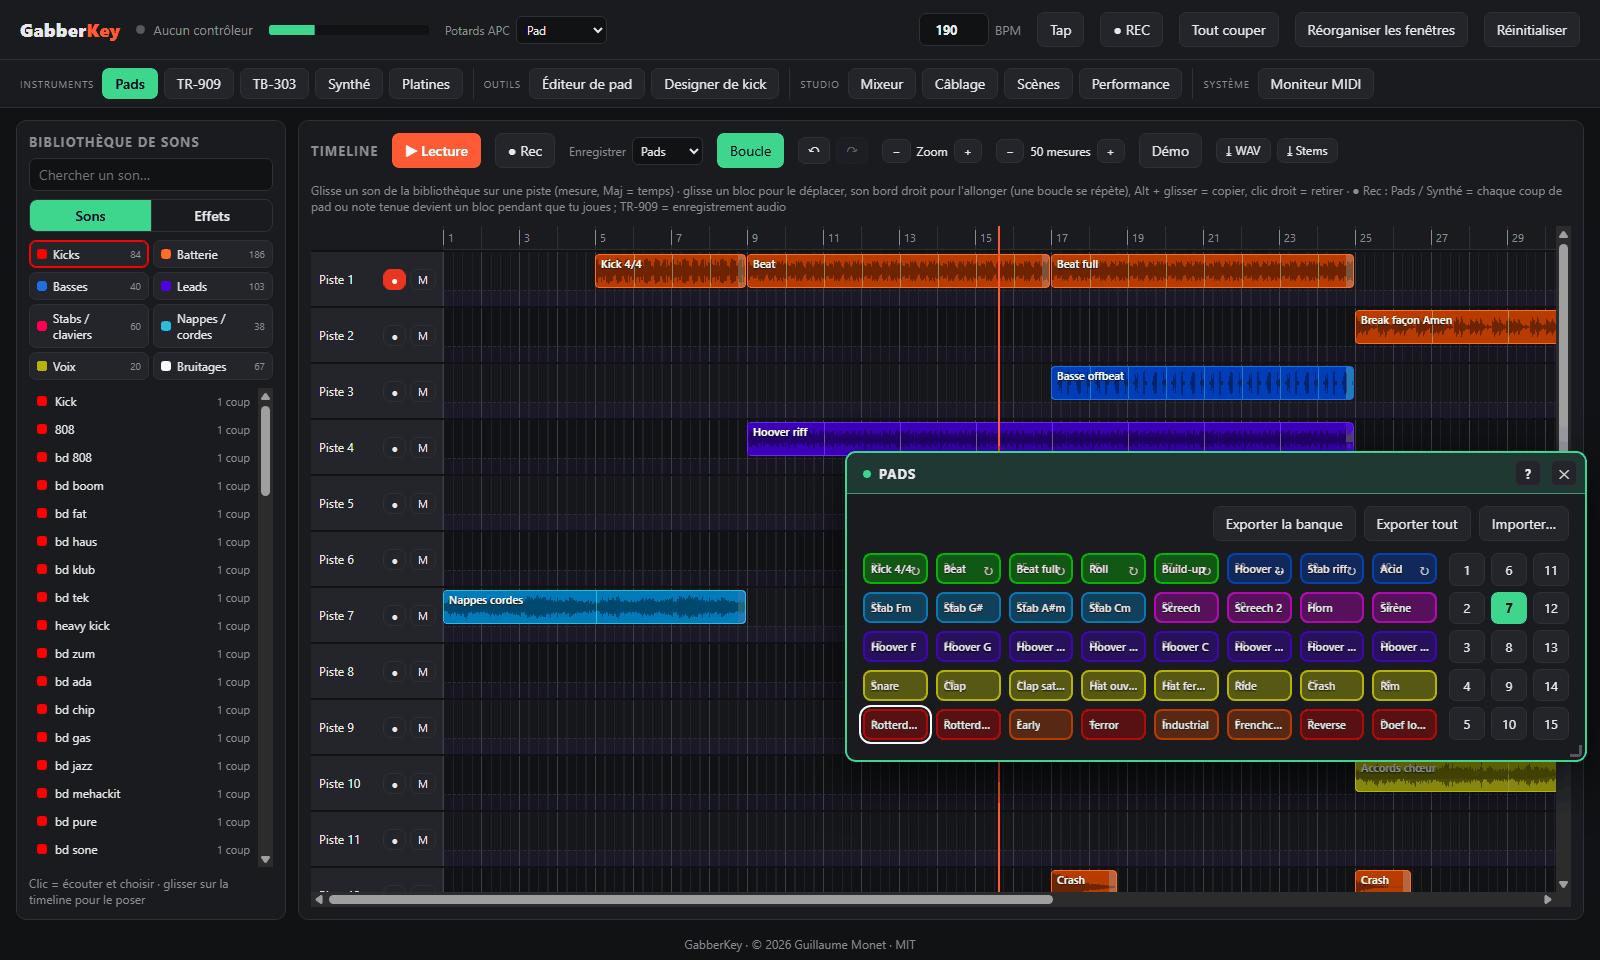
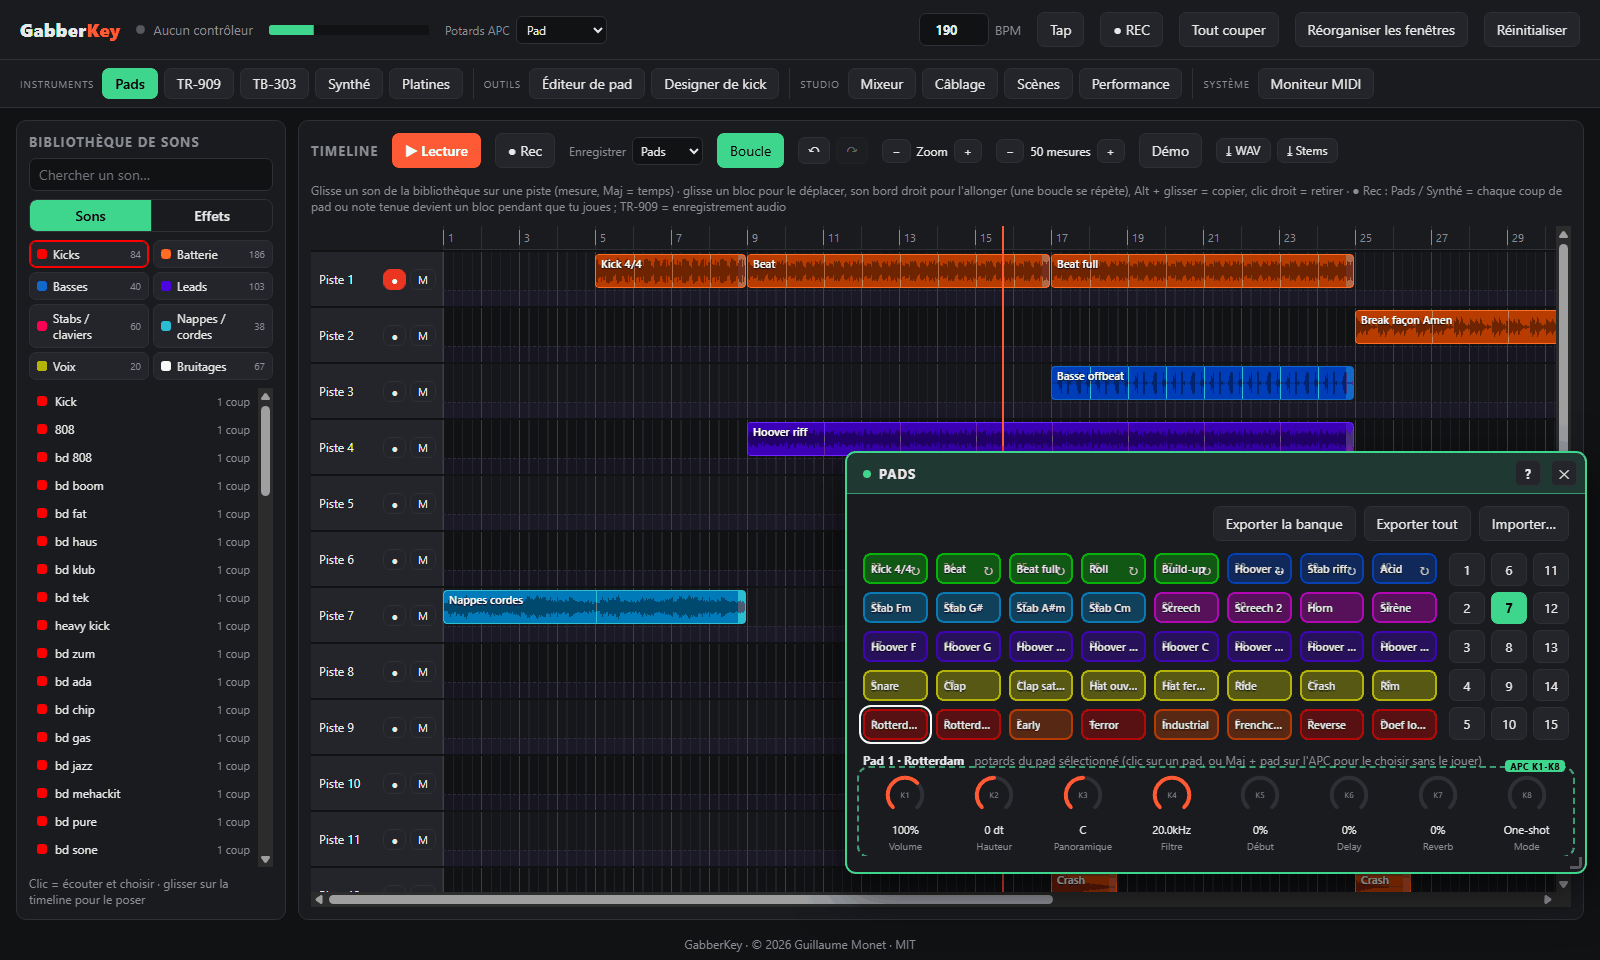
Pads window: knobs of the selected pad under the grid (synced with the pad editor and the APC knobs); screenshots updated

Changed region(s): [[0.5312, 0.7812, 1.0, 0.9688], [0.8438, 0.9062, 0.9062, 0.9375], [0.4375, 0.625, 0.4688, 0.6562]]

diff --git a/index.html b/index.html
@@ -5,7 +5,7 @@
   <meta name="viewport" content="width=device-width, initial-scale=1">
   <meta name="author" content="Guillaume Monet">
   <title>GabberKey</title>
-  <link rel="stylesheet" href="css/style.css?v=36">
+  <link rel="stylesheet" href="css/style.css?v=37">
 </head>
 <body>
   <div id="start" class="overlay">
@@ -85,6 +85,10 @@
       <div class="grid-wrap">
         <div id="pads" class="pads"></div>
         <div id="banks" class="banks" data-i18n-aria="banks.aria"></div>
+      </div>
+      <div class="pad-knobs">
+        <div class="pad-knobs-title"><b id="pad-knobs-name"></b><span class="hint" data-i18n="pads.knobsHint"></span></div>
+        <div id="pad-knobs" class="mini-knobs row-knobs"></div>
       </div>
     </section>
 
@@ -245,35 +249,35 @@
   <script type="importmap">
   {
     "imports": {
-      "./js/acid.js": "./js/acid.js?v=36",
-      "./js/apc.js": "./js/apc.js?v=36",
-      "./js/audio.js": "./js/audio.js?v=36",
-      "./js/decks.js": "./js/decks.js?v=36",
-      "./js/chords.js": "./js/chords.js?v=36",
-      "./js/help.js": "./js/help.js?v=36",
-      "./js/history.js": "./js/history.js?v=36",
-      "./js/i18n.js": "./js/i18n.js?v=36",
-      "./js/kickdesign.js": "./js/kickdesign.js?v=36",
-      "./js/kit.js": "./js/kit.js?v=36",
-      "./js/kits.js": "./js/kits.js?v=36",
-      "./js/library.js": "./js/library.js?v=36",
-      "./js/main.js": "./js/main.js?v=36",
-      "./js/mixer.js": "./js/mixer.js?v=36",
-      "./js/params.js": "./js/params.js?v=36",
-      "./js/patch.js": "./js/patch.js?v=36",
-      "./js/performer.js": "./js/performer.js?v=36",
-      "./js/presets.js": "./js/presets.js?v=36",
-      "./js/sidechain.js": "./js/sidechain.js?v=36",
-      "./js/recorder.js": "./js/recorder.js?v=36",
-      "./js/timeline.js": "./js/timeline.js?v=36",
-      "./js/storage.js": "./js/storage.js?v=36",
-      "./js/tr909.js": "./js/tr909.js?v=36",
-      "./js/trackfx.js": "./js/trackfx.js?v=36",
-      "./js/windows.js": "./js/windows.js?v=36",
-      "./js/zip.js": "./js/zip.js?v=36"
+      "./js/acid.js": "./js/acid.js?v=37",
+      "./js/apc.js": "./js/apc.js?v=37",
+      "./js/audio.js": "./js/audio.js?v=37",
+      "./js/decks.js": "./js/decks.js?v=37",
+      "./js/chords.js": "./js/chords.js?v=37",
+      "./js/help.js": "./js/help.js?v=37",
+      "./js/history.js": "./js/history.js?v=37",
+      "./js/i18n.js": "./js/i18n.js?v=37",
+      "./js/kickdesign.js": "./js/kickdesign.js?v=37",
+      "./js/kit.js": "./js/kit.js?v=37",
+      "./js/kits.js": "./js/kits.js?v=37",
+      "./js/library.js": "./js/library.js?v=37",
+      "./js/main.js": "./js/main.js?v=37",
+      "./js/mixer.js": "./js/mixer.js?v=37",
+      "./js/params.js": "./js/params.js?v=37",
+      "./js/patch.js": "./js/patch.js?v=37",
+      "./js/performer.js": "./js/performer.js?v=37",
+      "./js/presets.js": "./js/presets.js?v=37",
+      "./js/sidechain.js": "./js/sidechain.js?v=37",
+      "./js/recorder.js": "./js/recorder.js?v=37",
+      "./js/timeline.js": "./js/timeline.js?v=37",
+      "./js/storage.js": "./js/storage.js?v=37",
+      "./js/tr909.js": "./js/tr909.js?v=37",
+      "./js/trackfx.js": "./js/trackfx.js?v=37",
+      "./js/windows.js": "./js/windows.js?v=37",
+      "./js/zip.js": "./js/zip.js?v=37"
     }
   }
   </script>
-  <script type="module" src="js/main.js?v=36"></script>
+  <script type="module" src="js/main.js?v=37"></script>
 </body>
 </html>

diff --git a/js/main.js b/js/main.js
@@ -133,6 +133,7 @@ async function start() {
   buildBanks();
   buildEditor();
   buildApcPage();
+  buildKnobRow($('#pad-knobs'), 'pad');
   buildKnobRow($('#tr-knobs'), 'tr');
   buildKnobRow($('#master-eq'), 'eq');
   buildKnobRow($('#master-fx'), 'fx');
@@ -666,7 +667,15 @@ function renderPad(i) {
   el.querySelector('.name').textContent = pad ? pad.name : t('pad.empty');
 }
 
-function renderPads() { for (let i = 0; i < 40; i++) renderPad(i); }
+function renderPads() { for (let i = 0; i < 40; i++) renderPad(i); renderPadKnobs(); }
+
+// Potards du pad sélectionné, sous la grille de la fenêtre des pads (les mêmes que dans l'éditeur).
+function renderPadKnobs() {
+  if (!knobRows.pad) return;
+  renderKnobRow('pad');
+  const pad = currentPad();
+  $('#pad-knobs-name').textContent = pad ? `Pad ${state.selected + 1} · ${pad.name}` : t('pads.knobsEmpty', { n: state.selected + 1 });
+}
 
 function buildBanks() {
   const wrap = $('#banks');
@@ -845,6 +854,7 @@ function renderEditorKnobs() {
     el.querySelector('.value').textContent = pad ? def.fmt(toValue(def, p)) : '—';
     el.style.opacity = pad ? 1 : 0.4;
   });
+  renderPadKnobs();
 }
 
 // Crayon d'un pad : ouvre l'éditeur sur ce pad, et les potards de l'APC passent sur ses réglages.
@@ -869,7 +879,7 @@ function buildApcPage() {
 }
 
 // Groupe de potards d'une fenêtre qui correspond à une page (entouré quand l'APC le pilote).
-const PAGE_GROUP = { synth: '#synth-knobs', pad: '#ed-knobs', acid: '#acid-knobs', decks: '.decks', tr: '#tr-knobs', eq: '#master-eq', fx: '#master-fx' };
+const PAGE_GROUP = { synth: '#synth-knobs', pad: '#pad-knobs, #ed-knobs', acid: '#acid-knobs', decks: '.decks', tr: '#tr-knobs', eq: '#master-eq', fx: '#master-fx' };
 const pageGroup = page => (mixField(page) ? '#mixer' : PAGE_GROUP[page]);
 
 function renderPages() {
@@ -877,7 +887,7 @@ function renderPages() {
   if (sel) sel.value = state.page;
   for (const el of document.querySelectorAll('.apc-live')) el.classList.remove('apc-live');
   const g = pageGroup(state.page);
-  if (g) document.querySelector(g)?.classList.add('apc-live');
+  if (g) for (const el of document.querySelectorAll(g)) el.classList.add('apc-live');
 }
 
 // Fenêtre active -> page des potards de l'APC (les autres fenêtres ne changent rien).

diff --git a/js/i18n.js b/js/i18n.js
@@ -161,6 +161,7 @@ const STRINGS = {
     'win.pads': 'Pads', 'win.editor': 'Pad editor', 'win.tr': 'TR-909', 'win.piano': 'Synth', 'win.knobs': 'Knobs',
     'win.perf': 'Performance', 'win.mix': 'Mixer', 'win.scenes': 'Scenes', 'win.monitor': 'MIDI monitor',
     'win.help': 'Help', 'win.close': 'Close', 'help.title': 'Help · {name}',
+    'pads.knobsHint': 'knobs of the selected pad (click a pad, or Shift + pad on the APC to select it without playing)', 'pads.knobsEmpty': 'Pad {n} (empty)',
     'plugins.group.instruments': 'Instruments', 'plugins.group.tools': 'Tools', 'plugins.group.studio': 'Studio', 'plugins.group.system': 'System',
     'apc.page': 'APC knobs', 'apc.page.title': 'What the APC knobs K1-K8 control. It follows the active window; the APC track buttons also change it',
     'mix.masterEq': 'Master EQ', 'mix.masterFx': 'Global effects and volumes',
@@ -640,6 +641,7 @@ const STRINGS = {
     'win.pads': 'Pads', 'win.editor': 'Éditeur de pad', 'win.tr': 'TR-909', 'win.piano': 'Synthé', 'win.knobs': 'Potards',
     'win.perf': 'Performance', 'win.mix': 'Mixeur', 'win.scenes': 'Scènes', 'win.monitor': 'Moniteur MIDI',
     'win.help': 'Aide', 'win.close': 'Fermer', 'help.title': 'Aide · {name}',
+    'pads.knobsHint': 'potards du pad sélectionné (clic sur un pad, ou Maj + pad sur l\'APC pour le choisir sans le jouer)', 'pads.knobsEmpty': 'Pad {n} (vide)',
     'plugins.group.instruments': 'Instruments', 'plugins.group.tools': 'Outils', 'plugins.group.studio': 'Studio', 'plugins.group.system': 'Système',
     'apc.page': 'Potards APC', 'apc.page.title': 'Ce que pilotent les potards K1-K8 de l\'APC. Suit la fenêtre active ; les boutons de piste de l\'APC la changent aussi',
     'mix.masterEq': 'EQ du master', 'mix.masterFx': 'Effets globaux et volumes',

diff --git a/js/help.js b/js/help.js
@@ -7,6 +7,7 @@ const HELP = {
       <p>The 40-pad sampler, laid out like the APC grid (pads 1-8 at the bottom).</p>
       <ul>
         <li><b>Click</b> a pad (or hit it on the APC) to play it; <b>Shift + click</b> selects it without playing.</li>
+        <li><b>Knobs</b> under the grid: volume, pitch, pan, filter, start point, delay and reverb sends, and mode of the selected pad (also on the APC knobs K1-K8 when this window is active).</li>
         <li><b>✎</b> (shown when the mouse is over a pad) opens the <b>pad editor</b>: name, colour, playback mode, knobs, loop tempo.</li>
         <li><b>Drop an audio file</b> (WAV, MP3, FLAC, OGG…) on a pad to load it.</li>
         <li>Playback modes: <b>one-shot</b> (plays to the end), <b>hold</b> (as long as the pad is pressed), <b>loop</b> (starts on the next bar, press again to stop).</li>
@@ -128,6 +129,7 @@ const HELP = {
       <p>Le sampler de 40 pads, disposé comme la grille de l'APC (pads 1 à 8 en bas).</p>
       <ul>
         <li><b>Clic</b> sur un pad (ou frappe sur l'APC) pour le jouer ; <b>Maj + clic</b> le sélectionne sans le jouer.</li>
+        <li><b>Potards</b> sous la grille : volume, hauteur, panoramique, filtre, point de départ, envois delay et reverb, et mode du pad sélectionné (aussi sur les potards K1-K8 de l'APC quand cette fenêtre est active).</li>
         <li><b>✎</b> (visible au survol d'un pad) ouvre l'<b>éditeur de pad</b> : nom, couleur, mode de lecture, potards, tempo de boucle.</li>
         <li><b>Glisse un fichier audio</b> (WAV, MP3, FLAC, OGG…) sur un pad pour le charger.</li>
         <li>Modes : <b>one-shot</b> (joue jusqu'au bout), <b>maintenu</b> (tant que le pad est appuyé), <b>boucle</b> (démarre à la mesure suivante, un nouvel appui l'arrête).</li>

diff --git a/css/style.css b/css/style.css
@@ -348,6 +348,9 @@ footer { padding: 4px 20px 8px; }
 .apc-page select { font: inherit; color: var(--text); background: var(--bg); border: 1px solid var(--line); border-radius: 6px; padding: 4px 6px; }
 .mini-knobs.row-knobs { grid-template-columns: repeat(8, 1fr); }
 .tr-knobs { margin-top: 12px; }
+.pad-knobs { margin-top: 12px; }
+.pad-knobs-title { display: flex; align-items: baseline; gap: 10px; font-size: 12px; margin-bottom: 4px; }
+.pad-knobs-title b { white-space: nowrap; overflow: hidden; text-overflow: ellipsis; max-width: 45%; }
 .mix-master { display: grid; grid-template-columns: 1fr 1fr; gap: 12px; margin-top: 10px; }
 .mm-group { border: 1px solid var(--line); border-radius: 8px; padding: 6px 10px 8px; }
 .mm-group > span { display: block; font-size: 11px; font-weight: 700; text-transform: uppercase; letter-spacing: .05em; color: var(--muted); margin-bottom: 4px; }

diff --git a/README.fr.md b/README.fr.md
@@ -112,7 +112,7 @@ Tout se fait aussi à la souris. Sur le clavier de l'ordinateur, la rangée du m
 | 14 | **Mélodies** (hardcore / gabber, 190 BPM, fa mineur) : 40 boucles mélodiques sans batterie, à poser sur n'importe quel beat : thèmes (hoover, screech, horn, lead sombre, mentasm, acid), thèmes émotionnels (piano, cordes, staccato, cloches, chœur, pluck, supersaw), hooks de 2 mesures, boucles d'accords / d'arpèges / de basse, et 8 thèmes complets (mélodie + accords + basse) sur les suites classiques Fm–Db–Eb–Cm, Fm–Db–Ab–Eb, Fm–Bbm–Db–C et Fm–Eb–Db–C |
 | 15 | **Mélodies hardstyle** (150 BPM) : 40 boucles : leads euphoriques au supersaw, mélodies de screech raw, leads et hoover raw, plucks, intros au piano et aux cloches, chœur et cordes, accords euphoriques, lignes de reverse bass, et 8 hymnes complets (lead + accords + reverse bass) |
 
-Pour charger ton propre son, glisse un fichier audio (WAV, MP3, FLAC, OGG…) sur un pad ou sur l'éditeur, ou utilise **Charger un son…**. Le **crayon ✎**, qui apparaît au survol d'un pad, ouvre l'**éditeur de pad** sur ce pad : nom, couleur de la LED, mode de lecture (**One-shot**, **Maintien** ou **Boucle**) et les **8 potards** du pad (volume, hauteur, panoramique, filtre, début, delay, reverb, mode), aussi sur les potards de l'APC.
+Pour charger ton propre son, glisse un fichier audio (WAV, MP3, FLAC, OGG…) sur un pad ou sur l'éditeur, ou utilise **Charger un son…**. Sous la grille des pads, **8 potards** règlent le pad sélectionné (volume, hauteur, panoramique, filtre, début, delay, reverb, mode), aussi sur les potards de l'APC quand la fenêtre Pads est active. Le **crayon ✎**, qui apparaît au survol d'un pad, ouvre l'**éditeur de pad** sur ce pad : nom, couleur de la LED, mode de lecture (**One-shot**, **Maintien** ou **Boucle**) et les **8 potards** du pad (volume, hauteur, panoramique, filtre, début, delay, reverb, mode), aussi sur les potards de l'APC.
 
 ## TR-909
 
@@ -336,7 +336,7 @@ Le tempo global (en-tête, ou bouton **Tap**) pilote toutes les boucles. Chacune
 
 ## Potentiomètres
 
-Il n'y a pas de fenêtre de potards globale : **chaque instrument a ses potards dans sa propre fenêtre** (synthé, éditeur de pad, TR-909 sous sa grille, TB-303, platines, designer de kick), et la table de mixage a une section **Master** (EQ du master, effets globaux et volumes).
+Il n'y a pas de fenêtre de potards globale : **chaque instrument a ses potards dans sa propre fenêtre** (synthé, fenêtre des pads et éditeur de pad, TR-909 sous sa grille, TB-303, platines, designer de kick), et la table de mixage a une section **Master** (EQ du master, effets globaux et volumes).
 
 Les 8 potards de l'APC (K1-K8) pilotent une **page** à la fois :
 - la page **suit la fenêtre active** : clic sur la TB-303 et K1-K8 pilotent la TB-303, clic sur la TR-909 et ils pilotent l'instrument choisi de la 909, et ainsi de suite (synthé, platines, éditeur de pad, mixeur) ;

diff --git a/README.md b/README.md
@@ -112,7 +112,7 @@ Everything can also be done with the mouse. On the computer keyboard, the middle
 | 14 | **Melodies** (hardcore / gabber, 190 BPM, F minor): 40 melodic loops with no drums, to layer on any beat: themes (hoover, screech, horn, dark lead, mentasm, acid), emotional themes (piano, strings, staccato, bells, choir, pluck, supersaw), 2-bar hooks, chord / arpeggio / bass-line loops, and 8 full themes (melody + chords + bass) over the classic progressions Fm–Db–Eb–Cm, Fm–Db–Ab–Eb, Fm–Bbm–Db–C and Fm–Eb–Db–C |
 | 15 | **Hardstyle melodies** (150 BPM): 40 loops: euphoric supersaw leads, raw screech melodies, raw leads and hoover, plucks, piano and bells intros, choir and strings, euphoric chords, reverse-bass lines, and 8 full anthems (lead + chords + reverse bass) |
 
-To load your own sound, drop an audio file (WAV, MP3, FLAC, OGG…) on a pad or on the editor, or use **Load a sound…**. The **✎ pencil** that appears when the mouse is over a pad opens the **pad editor** on it: name, LED colour, playback mode (**One-shot**, **Hold** or **Loop**) and the pad's **8 knobs** (volume, pitch, pan, filter, start, delay, reverb, mode), also on the APC knobs.
+To load your own sound, drop an audio file (WAV, MP3, FLAC, OGG…) on a pad or on the editor, or use **Load a sound…**. Under the pad grid, **8 knobs** set the selected pad (volume, pitch, pan, filter, start, delay, reverb, mode), also on the APC knobs when the Pads window is active. The **✎ pencil** that appears when the mouse is over a pad opens the **pad editor** on it: name, LED colour, playback mode (**One-shot**, **Hold** or **Loop**) and the pad's **8 knobs** (volume, pitch, pan, filter, start, delay, reverb, mode), also on the APC knobs.
 
 ## TR-909
 
@@ -336,7 +336,7 @@ The global tempo (header, or the **Tap** button) drives every loop. Each loop st
 
 ## Knobs
 
-There is no global knob window: **each instrument has its knobs in its own window** (synth, pad editor, TR-909 under its grid, TB-303, turntables, kick designer), and the mixer has a **Master** section (master EQ, global effects and volumes).
+There is no global knob window: **each instrument has its knobs in its own window** (synth, pads window and pad editor, TR-909 under its grid, TB-303, turntables, kick designer), and the mixer has a **Master** section (master EQ, global effects and volumes).
 
 The 8 knobs of the APC (K1-K8) control one **page** at a time:
 - the page **follows the active window**: click the TB-303 and K1-K8 control the TB-303, click the TR-909 and they control the selected 909 instrument, and so on (synth, turntables, pad editor, mixer);
